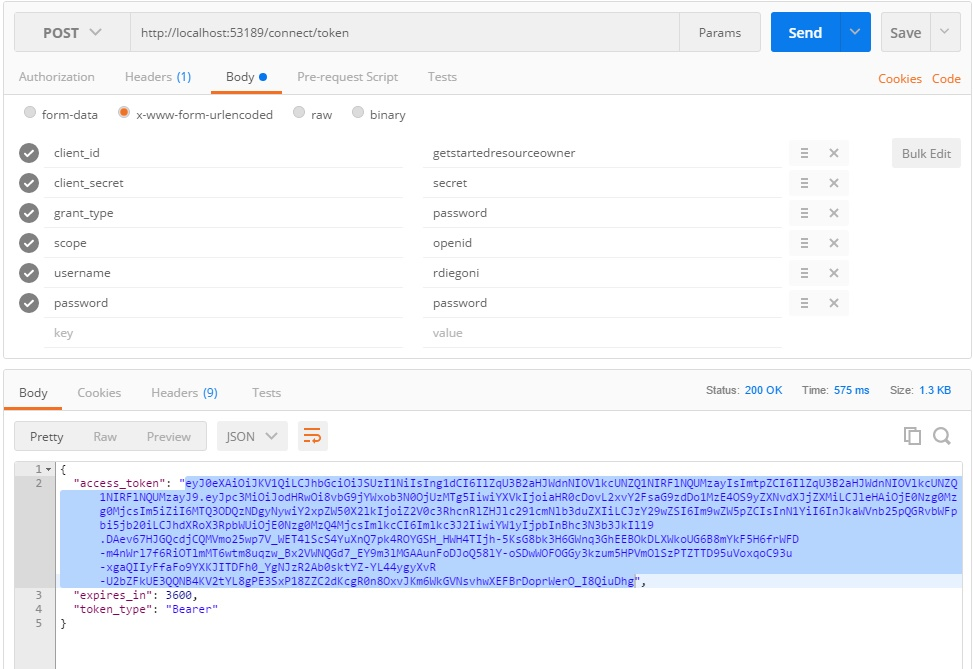
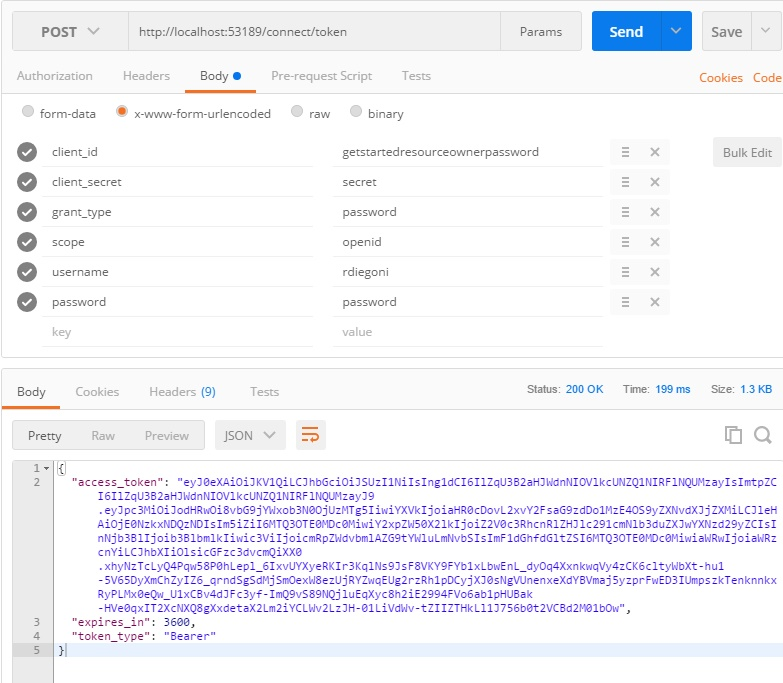
update postman screenshot

diff --git a/GetStarted.OAuth/InMemoryManager.cs b/GetStarted.OAuth/InMemoryManager.cs
@@ -15,22 +15,6 @@ namespace GetStarted.OAuth
             {
                 new Client
                 {
-                    ClientId = "getstartedresourceowner",
-                    ClientSecrets = new List<Secret>
-                    {
-                        new Secret("secret".Sha256())
-                    },
-                    ClientName = "Get Started Resource Owner",
-                    Flow = Flows.ResourceOwner,
-                    AllowedScopes = new List<string>()
-                    {
-                        Constants.StandardScopes.OpenId,
-                        "read"
-                    },
-                    Enabled = true,
-                },
-                new Client
-                {
                     ClientId = "getstartedimplicit",
                     ClientSecrets = new List<Secret>
                     {
@@ -83,16 +67,16 @@ namespace GetStarted.OAuth
                 },
                 new Client
                 {
-                    ClientId = "getstartedresourceownerpassword",
+                    ClientId = "getstartedresourceownercredentials",
                     ClientSecrets = new List<Secret>
                     {
                         new Secret("secret".Sha256())
                     },
-                    ClientName = "Get Started Resource Owner Password",
+                    ClientName = "Get Started Resource Owner Credentials",
                     Flow = Flows.ResourceOwner,
                     AllowedScopes = new List<string>
                     {
-                        "ApiScope"
+                        Constants.StandardScopes.OpenId
                     },
                     Enabled = true,
                 },

diff --git a/GetStarted.ResourceOwnerPwd/Services/ApiService.cs b/GetStarted.ResourceOwnerPwd/Services/ApiService.cs
@@ -27,9 +27,9 @@ namespace GetStarted.ResourceOwnerPwd.Services
         private async Task<string> GetToken()
         {
             var address = "http://localhost:53189/connect/token";
-            var client = new TokenClient(address, "getstartedresourceownerpassword", "secret");
+            var client = new TokenClient(address, "getstartedresourceownercredentials", "secret");
 
-            var response = await client.RequestResourceOwnerPasswordAsync("rdiegoni", "password", "ApiScope").ConfigureAwait(false);
+            var response = await client.RequestResourceOwnerPasswordAsync("rdiegoni", "password", "openid").ConfigureAwait(false);
             if (response.IsError)
             {
                 return String.Empty;

diff --git a/Readme.md b/Readme.md
@@ -125,6 +125,8 @@ This grant is suitable for machine-to-machine authentication.
 
 ![Clients Credentials Grant](./Img/client_credentials_flow.png)
 
+![Client Credendials Grant Postman](./Img/client_credentials_postman.jpg)
+
 ### Validate an Access Token
 Authorization Server exposes a public key which is used by the resource server and consumer to validate the access token on their end.
 
